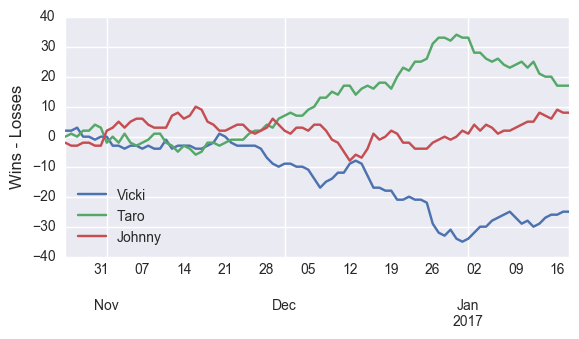
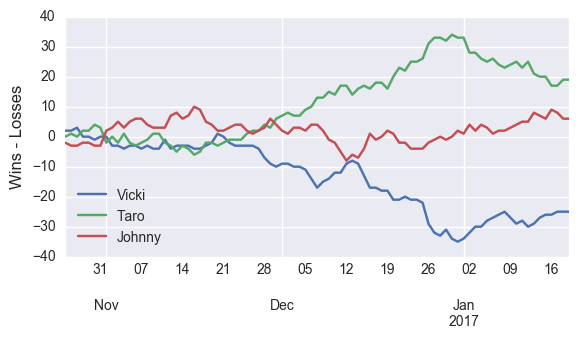
update 1/19

diff --git a/index.html b/index.html
@@ -35,7 +35,7 @@
 <a id="the-bet-is-on" class="anchor" href="#the-bet-is-on" aria-hidden="true"><span aria-hidden="true" class="octicon octicon-link"></span></a>The bet is on.</h1>
 
 <h1>
-<a id="current-winner-of-2016-17-season" class="anchor" href="#current-winner-of-2016-17-season" aria-hidden="true"><span aria-hidden="true" class="octicon octicon-link"></span></a>Current winner of 2016-17 Season (as of 1/18/2017):</h1>
+<a id="current-winner-of-2016-17-season" class="anchor" href="#current-winner-of-2016-17-season" aria-hidden="true"><span aria-hidden="true" class="octicon octicon-link"></span></a>Current winner of 2016-17 Season (as of 1/19/2017):</h1>
 
 <h2>
 <a id="none" class="anchor" href="#none" aria-hidden="true"><span aria-hidden="true" class="octicon octicon-link"></span></a><strong>Taro</strong>
@@ -44,23 +44,23 @@
 <h2>
 <a id="johnny" class="anchor" href="#johnny" aria-hidden="true"><span aria-hidden="true" class="octicon octicon-link"></span></a>Johnny</h2>
 
-<p>Wins: 214<br>
-Losses: 206<br>
-Remaining wins available: 343</p>
+<p>Wins: 216<br>
+Losses: 210<br>
+Remaining wins available: 338</p>
 
 <h2>
 <a id="taro" class="anchor" href="#taro" aria-hidden="true"><span aria-hidden="true" class="octicon octicon-link"></span></a>Taro</h2>
 
-<p>Wins: 216<br>
-Losses: 199<br>
-Remaining wins available: 343</p>
+<p>Wins: 221<br>
+Losses: 202<br>
+Remaining wins available: 335</p>
 
 <h2>
 <a id="vicki" class="anchor" href="#vicki" aria-hidden="true"><span aria-hidden="true" class="octicon octicon-link"></span></a>Vicki</h2>
 
-<p>Wins: 195<br>
-Losses: 220<br>
-Remaining wins available: 347</p>
+<p>Wins: 197<br>
+Losses: 222<br>
+Remaining wins available: 343</p>
 
 <img src='pythoncode/win_percent.png' alt='Winning Percentage Over Time'>
 <h1>
